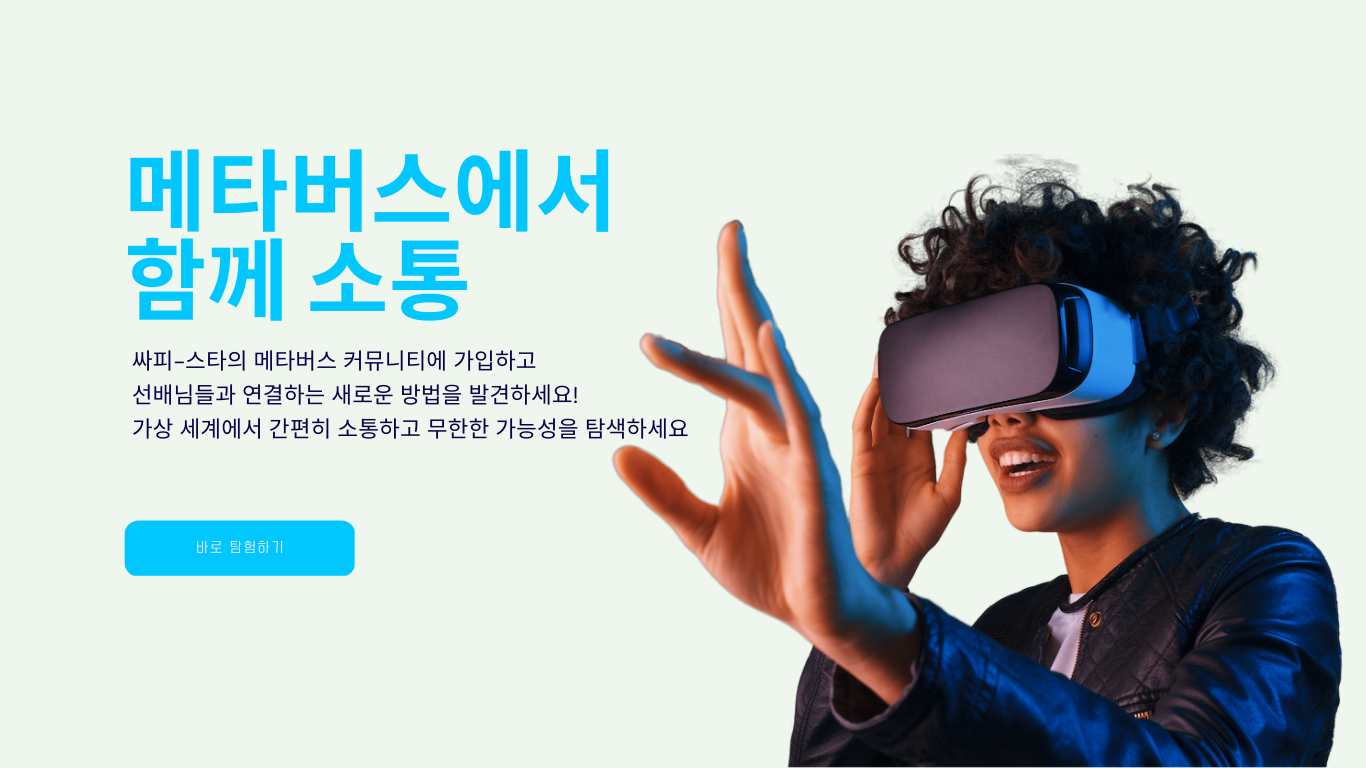
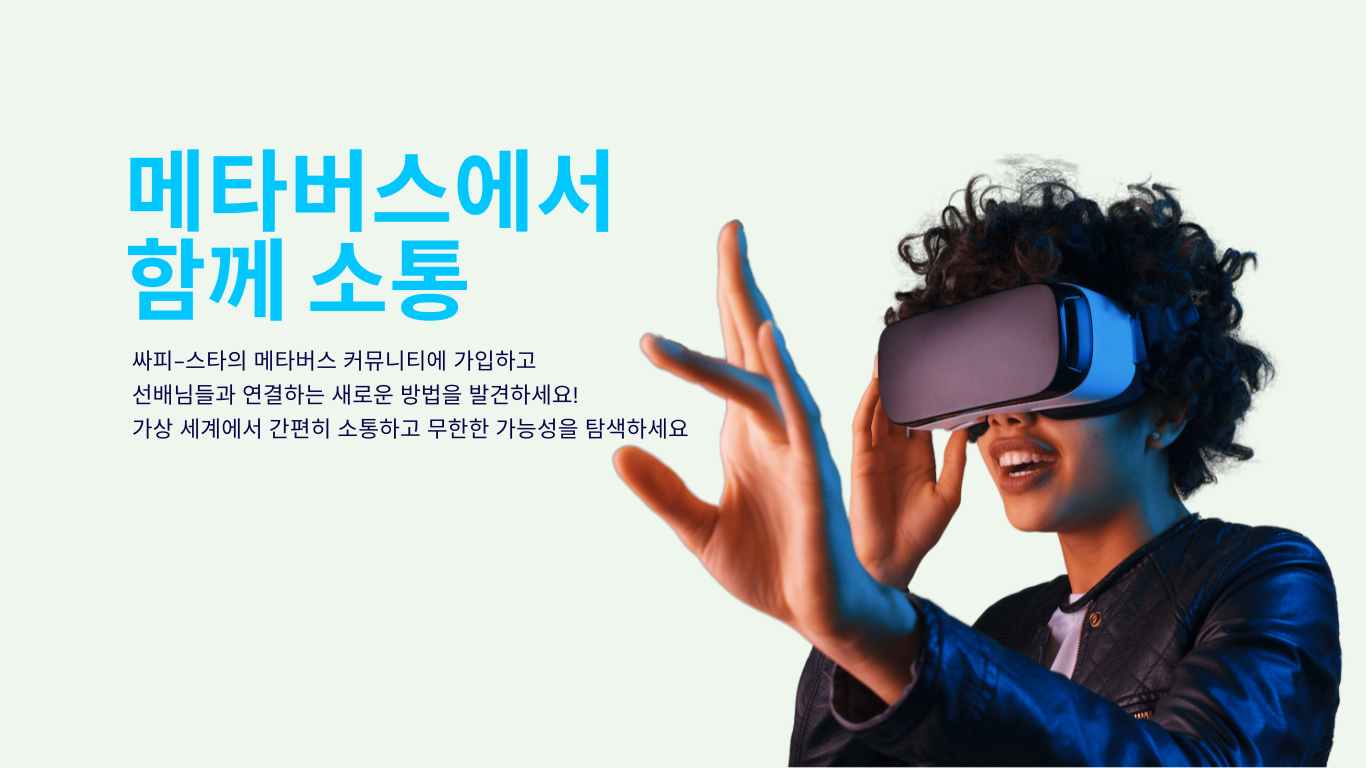
[fix] 메타버스 버튼 활성화

Changed region(s): [[0.0922, 0.6562, 0.2767, 0.75]]

diff --git a/FrontEnd/src/pages/App.tsx b/FrontEnd/src/pages/App.tsx
@@ -83,7 +83,14 @@ function App() {
       <div className="h-screen w-screen items-center bg-[url('/public/background/landing_temp_3.png')] bg-cover bg-center bg-no-repeat"></div>
       <div className="h-screen w-screen items-center bg-[url('/public/background/landing_temp_4.png')] bg-cover bg-center bg-no-repeat"></div>
       <div className="h-screen w-screen items-center bg-[url('/public/background/landing_temp_5.png')] bg-cover bg-center bg-no-repeat"></div>
-      <div className="h-screen w-screen items-center bg-[url('/public/background/landing_temp_6.png')] bg-cover bg-center bg-no-repeat"></div>
+      <div className="flex h-screen w-screen items-center justify-start bg-[url('/public/background/landing_temp_6.png')] bg-cover bg-center bg-no-repeat">
+        <button
+          onClick={() => navigate("/test3")}
+          className="ml-140 mt-230 rounded-[10px] bg-[#02C7FE] px-70 py-15 font-['nemo030'] text-white hover:bg-blue-100 hover:text-black"
+        >
+          바로 시작하기
+        </button>
+      </div>
       <div className="h-screen w-screen items-center bg-[url('/public/background/landing_temp_7.png')] bg-cover bg-center bg-no-repeat"></div>
       <div className="h-screen w-screen items-center bg-[url('/public/background/landing_temp_8.png')] bg-cover bg-center bg-no-repeat"></div>
       <FloatingMenu />
